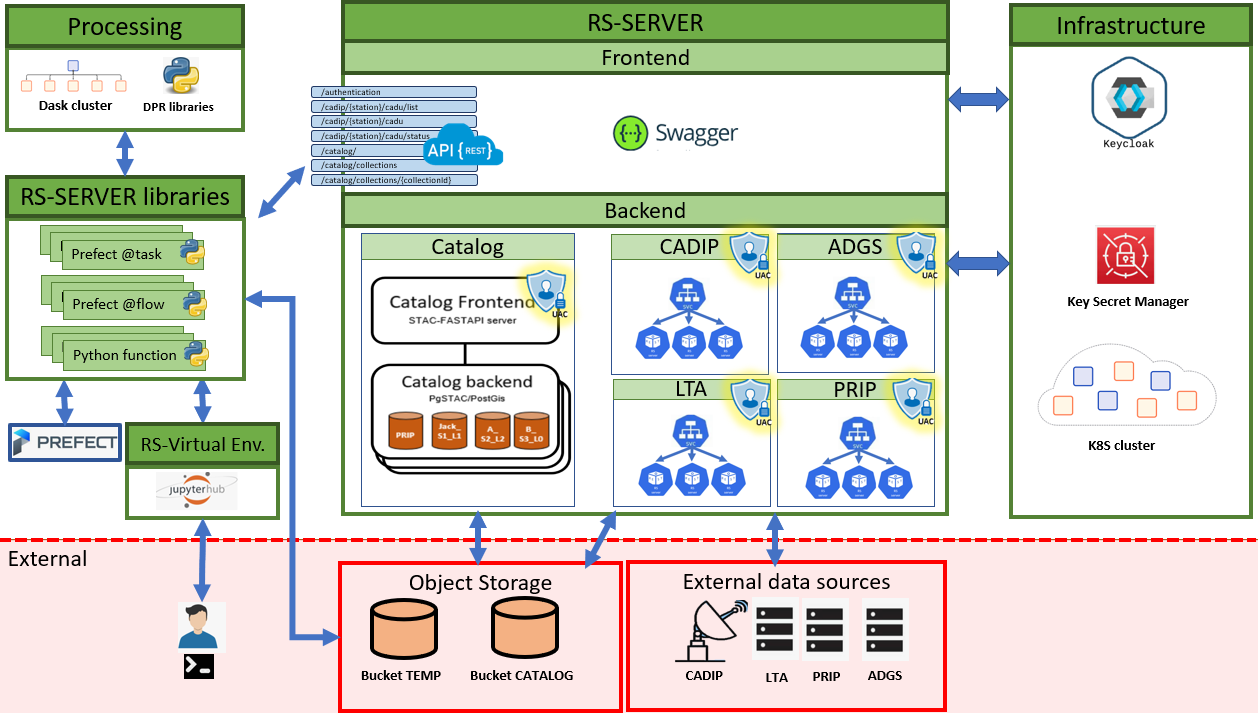
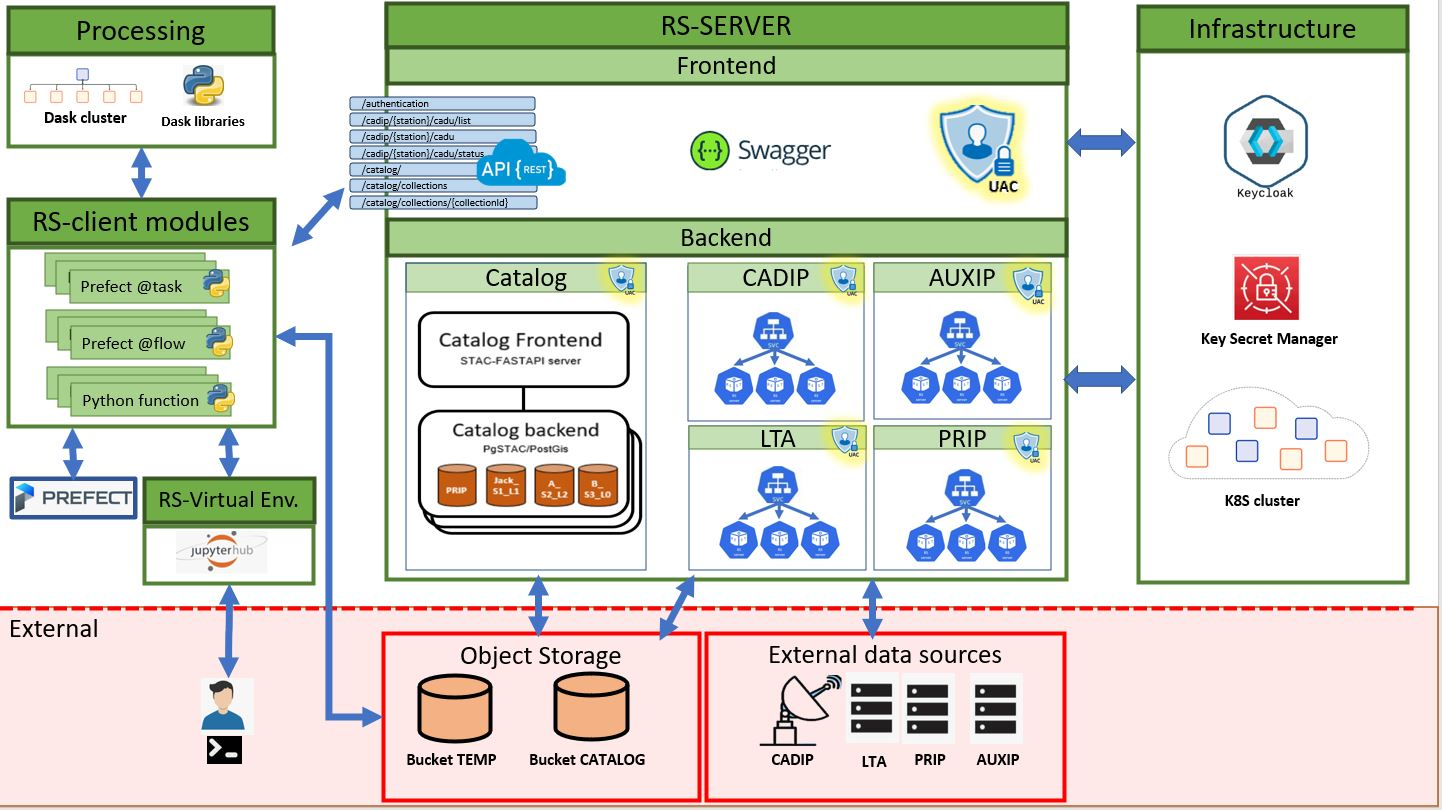
Update views and update RS server description

Changed region(s): [[0.0, 0.0, 1.0, 1.0], [0.465, 0.1543, 0.589, 0.216]]

diff --git a/docs/doc/users/architecture.md b/docs/doc/users/architecture.md
@@ -1,12 +1,20 @@
-Static View
-===========
+RS-Server inside RS Python
+==========================
 
-We can split the system into the following Components:
+The **RS-Server** is the major component of **Reference-System Python**. 
+It controls user access to all sensitive interfaces: 
+    - Catalog (fine access control per Collection)
 
--   **RS-Server**: The RS-Server controls user access to all sensitive
-    interfaces: Catalog, LTA, ADGS, PRIP, CADIP. As a consequence, we
-    can distinguish following components:
+    - LTA
 
+    - ADGS
+
+    - PRIP 
+
+    - CADIP
+
+
+**RS-Server** components are the following ones:
     -   **RS-Server Frontend**
 
     -   **RS-Server Backend / Catalog**
@@ -19,47 +27,19 @@ We can split the system into the following Components:
 
     -   **RS-Server Backend / AUXIP**
 
--   **RS-Client libraries**: this is a set of python functions that
-    provide processing tasks and flows. Flows and tasks can be
-    orchestrated by Prefect server or executed from any Python
-    environment. On RS-Server side, there will be also a function to
-    compute performance indicator.
 
--   **RS-Virtual environment**: Component that gives users access to
-    computational environments and resources for executing processing
-    chains.
 
--   **Processing**: this group hosts all components to process Sentinel
-    products. The CFI are not part of the group. Only wrappers,
-    preparation worker and Dask cluster provide processing power.
-    Here are the components:
-
-    -   **Dask cluster**
-
-    -   **DPR libraries**
-
--   **Infrastructure**: The infrastructure is a portable, extensible and
-    open-source platform orchestrated by Kubernetes. We can isolate two
-    specific layouts: monitoring and security. As a consequence,
-    we can distinguish the following components:
-
-    -   **Infrastructure core**
-
-    -   **Infrastructure monitoring**
-
-    -   **Infrastructure security**
-
-![Static View](../../images/staticview.png)
 
 Dynamic View
 ============
 
-The following schema highlights the main interactions between the
-components.
+On the following schema we see that RS-Server is on the middle of the system with an access control to Copernicus sensitive interfaces.
 
 ![Dynamic View](../../images/dynamicview.png)
 
+
 STAC item lifecycle
 -------------------
+STAC standard is everywhere on RS. The following schema highligts where a STAC item is created, stored and updated.
 
 ![Stac Item Lifecylce](../../images/stac-item-lifecycle.png)

diff --git a/docs/doc/index.md b/docs/doc/index.md
@@ -1,19 +1,20 @@
 # RS-Server
 
-RS-Server is a comprehensive toolbox designed to facilitate the retrieval of external data for Copernicus processing
-chains. It allows users to store data into object storages and index it into STAC compatible catalogs.
+The Reference System server provides a set of services necessary to build Copernicus processing workflows. All services are subject to access control.
 
-The primary objective of RS-Server is to support Copernicus processing chains in executing their tasks efficiently.
+RS-Server offers a catalog of Sentinel products compatible with the STAC (SpatioTemporal Asset Catalog) standard, as well as functions to access data from AUXIP and CADIP stations.
 
 ## Features
 
-The toolbox provides REST endpoints that enable users to:
+To achieve this, RS-Server exposes REST endpoints that allow users to:
+* Search CADU chunks from CADIP stations
+* Stage CADU chunks from CADIP stations
+* Search auxilliary data from AUXIP station
+* Stage auxilliary data from AUXIP station
+* ALL endpoints from [SpatioTemporal Asset Catalog API](https://stacspec.org/) 
 
-* Search for external data.
-* Stage external data.
-* Index staged data into STAC compatible catalogs.
-* Search for data within the catalog.
-* Serve data to Copernicus [EOPF-CPM](https://cpm.pages.eopf.copernicus.eu/eopf-cpm/main/index.html) processors.
+Please note that the STAC catalog will also embedds STAC extension to support Sentinel product format from [EOPF-CPM](https://cpm.pages.eopf.copernicus.eu/eopf-cpm/main/index.html).
+
 
 All these functionalities are available exclusively to authorized users. Permissions can be both technical and
 functional.
@@ -25,3 +26,11 @@ Access the [User Manual](user_manual.md) for detailed instructions and guidance.
 ## Developer Manual
 
 Access the [Developer Manual](developer_manual.md) for technical documentation and developer guidelines.
+
+
+
+
+
+
+ 
+
